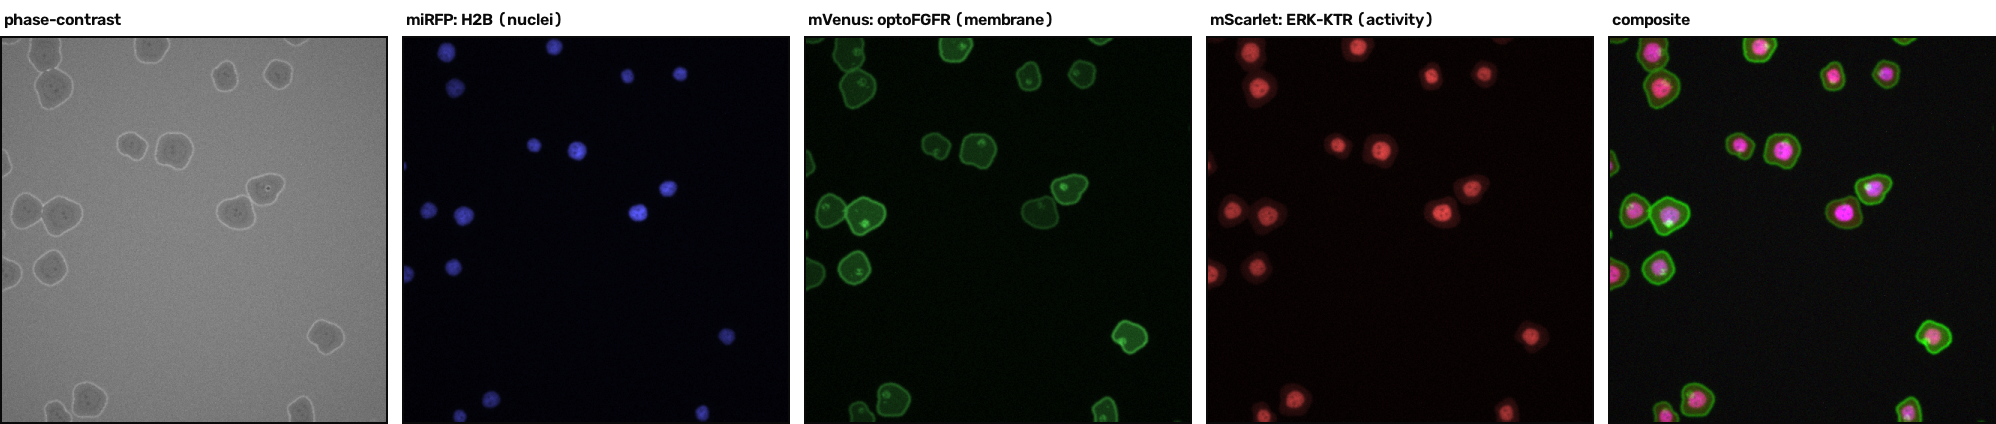
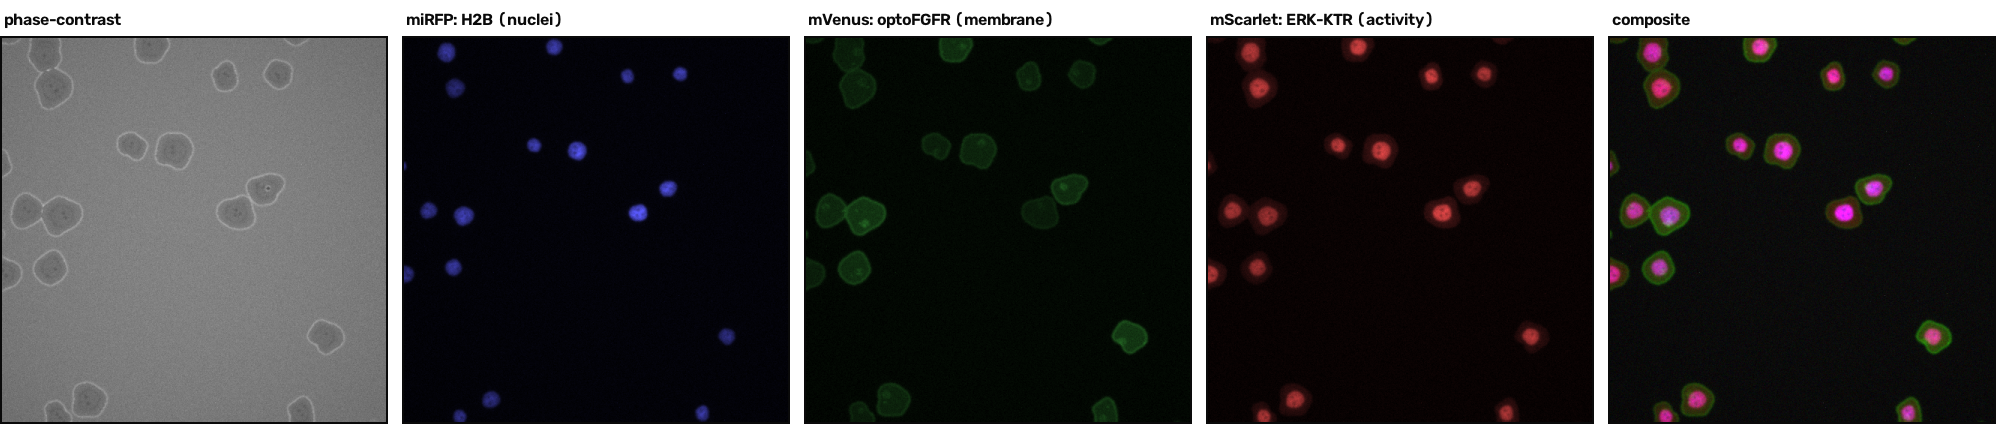
Softer mVenus, N letter target, 5x faster physics
- mVenus: rim only ~20% brighter than the body (flat fibroblasts show
  little edge enhancement), Golgi at half strength, channel 30% dimmer
- letter example targets a symmetric N instead of the L (the L's corner
  concentrated the crowding); 70% of cells on target
- physics: a uniform neighbour grid for the contact and pressure passes
  (all-pairs before), stimulation tests only cells near the field of
  view, and the signalling/KTR-noise update is vectorized (it was a
  per-cell Python loop and dominated the step). 1280-cell letter
  population 8.6 -> 1.65 ms/step, default 640 cells 3.8 -> 0.9 ms/step;
  the letter exercise runs in ~25 s instead of several minutes
- README performance numbers updated

diff --git a/src/vmteach/cells.py b/src/vmteach/cells.py
@@ -318,12 +318,45 @@ def update_all_cells_parallel(centers: np.ndarray, velocities: np.ndarray,
                 wells[w, 0], wells[w, 1], half, corner)
 
 
+@njit(cache=True)
+def build_grid(centers: np.ndarray, cell_size: float):
+    """Uniform spatial grid over the cell centres (CSR layout).
+
+    Returns ``(order, start, bx, by, nx, ny)``: the cells sorted by bin
+    (stable, so deterministic), per-bin start offsets into ``order``, and
+    each cell's bin coordinates. Neighbour searches then scan the 3 x 3
+    surrounding bins instead of every cell, which makes the contact
+    passes ~linear in the population size.
+    """
+    n = centers.shape[0]
+    x0 = centers[:, 0].min()
+    y0 = centers[:, 1].min()
+    nx = int((centers[:, 0].max() - x0) / cell_size) + 1
+    ny = int((centers[:, 1].max() - y0) / cell_size) + 1
+    bx = np.empty(n, np.int64)
+    by = np.empty(n, np.int64)
+    key = np.empty(n, np.int64)
+    for i in range(n):
+        bx[i] = int((centers[i, 0] - x0) / cell_size)
+        by[i] = int((centers[i, 1] - y0) / cell_size)
+        key[i] = by[i] * nx + bx[i]
+    order = np.argsort(key, kind="mergesort")
+    start = np.zeros(nx * ny + 1, np.int64)
+    for i in range(n):
+        start[key[i] + 1] += 1
+    for b in range(nx * ny):
+        start[b + 1] += start[b]
+    return order, start, bx, by, nx, ny
+
+
 @njit(parallel=True, cache=True)
 def conform_membranes(centers: np.ndarray, radii_in: np.ndarray,
                       radii_out: np.ndarray, rest_radii: np.ndarray,
                       base_radii: np.ndarray, angles: np.ndarray,
                       cell_well: np.ndarray, pushes: np.ndarray,
-                      dt: float) -> None:
+                      dt: float, order: np.ndarray, start: np.ndarray,
+                      bx: np.ndarray, by: np.ndarray, gnx: int,
+                      gny: int) -> None:
     """Contact inhibition of protrusion plus contact pressure (in place).
 
     Any vertex that would sit inside a neighbouring cell's outline is
@@ -350,30 +383,34 @@ def conform_membranes(centers: np.ndarray, radii_in: np.ndarray,
         rmax_i = radii_in[i].max()
         pushes[i, 0] = 0.0
         pushes[i, 1] = 0.0
-        for j in range(n):
-            if j == i or cell_well[j] != cell_well[i]:
+        for gy in range(max(0, by[i] - 1), min(gny, by[i] + 2)):
+          for gx in range(max(0, bx[i] - 1), min(gnx, bx[i] + 2)):
+            b = gy * gnx + gx
+            for kk in range(start[b], start[b + 1]):
+              j = order[kk]
+              if j == i or cell_well[j] != cell_well[i]:
                 continue
-            dx = centers[j, 0] - cx
-            dy = centers[j, 1] - cy
-            dc = np.sqrt(dx * dx + dy * dy)
-            if dc >= rmax_i + radii_in[j].max():
-                continue
-            for v in range(nv):
-                rv = radii_out[i, v]
-                px = cx + np.cos(angles[v]) * rv
-                py = cy + np.sin(angles[v]) * rv
-                ddx = px - centers[j, 0]
-                ddy = py - centers[j, 1]
-                d = np.sqrt(ddx * ddx + ddy * ddy)
-                kj = int(round(np.arctan2(ddy, ddx) / two_pi * nv)) % nv
-                lim = CONTACT_SURFACE * radii_in[j, kj]
-                if d < lim:
-                    rv = max(rv - (lim - d), 0.5 * base_radii[i])
-                    radii_out[i, v] = rv
-                    comp = rest_radii[i, v] - rv
-                    if comp > 0.0:
-                        pushes[i, 0] -= np.cos(angles[v]) * comp
-                        pushes[i, 1] -= np.sin(angles[v]) * comp
+              dx = centers[j, 0] - cx
+              dy = centers[j, 1] - cy
+              dc = np.sqrt(dx * dx + dy * dy)
+              if dc >= rmax_i + radii_in[j].max():
+                  continue
+              for v in range(nv):
+                  rv = radii_out[i, v]
+                  px = cx + np.cos(angles[v]) * rv
+                  py = cy + np.sin(angles[v]) * rv
+                  ddx = px - centers[j, 0]
+                  ddy = py - centers[j, 1]
+                  d = np.sqrt(ddx * ddx + ddy * ddy)
+                  kj = int(round(np.arctan2(ddy, ddx) / two_pi * nv)) % nv
+                  lim = CONTACT_SURFACE * radii_in[j, kj]
+                  if d < lim:
+                      rv = max(rv - (lim - d), 0.5 * base_radii[i])
+                      radii_out[i, v] = rv
+                      comp = rest_radii[i, v] - rv
+                      if comp > 0.0:
+                          pushes[i, 0] -= np.cos(angles[v]) * comp
+                          pushes[i, 1] -= np.sin(angles[v]) * comp
         pushes[i, 0] *= PRESSURE * dt
         pushes[i, 1] *= PRESSURE * dt
 
@@ -382,7 +419,10 @@ def conform_membranes(centers: np.ndarray, radii_in: np.ndarray,
 def resolve_all_collisions(centers: np.ndarray, velocities: np.ndarray,
                            radii: np.ndarray, base_radii: np.ndarray,
                            cell_well: np.ndarray,
-                           wells: np.ndarray, half: float, corner: float) -> None:
+                           wells: np.ndarray, half: float, corner: float,
+                           order: np.ndarray, start: np.ndarray,
+                           bx: np.ndarray, by: np.ndarray, gnx: int,
+                           gny: int) -> None:
     """Pairwise body-guard resolution (in place).
 
     Membrane contact is handled by ``conform_membranes`` (membranes press
@@ -390,8 +430,8 @@ def resolve_all_collisions(centers: np.ndarray, velocities: np.ndarray,
     (nucleus scale, ``BODY_GUARD`` x base radius) from merging.
     Overlapping bodies are pushed apart symmetrically along the line of
     centres and both velocities are zeroed; the pair is then confined to
-    its wells again. Deterministic pair order (i < j), so a rerun gives
-    bit-identical positions.
+    its wells again. Deterministic pair order (i ascending, neighbours
+    j > i in grid order), so a rerun gives bit-identical positions.
     """
     n = centers.shape[0]
     maxr = np.empty(n)
@@ -400,7 +440,13 @@ def resolve_all_collisions(centers: np.ndarray, velocities: np.ndarray,
         maxr[i] = radii[i].max()
         guard[i] = BODY_GUARD * base_radii[i]
     for i in range(n):
-        for j in range(i + 1, n):
+      for gy in range(max(0, by[i] - 1), min(gny, by[i] + 2)):
+        for gx in range(max(0, bx[i] - 1), min(gnx, bx[i] + 2)):
+          b = gy * gnx + gx
+          for kk in range(start[b], start[b + 1]):
+            j = order[kk]
+            if j <= i:
+                continue
             dx = centers[j, 0] - centers[i, 0]
             dy = centers[j, 1] - centers[i, 1]
             dist = np.sqrt(dx * dx + dy * dy)
@@ -424,6 +470,40 @@ def resolve_all_collisions(centers: np.ndarray, velocities: np.ndarray,
                     wells[wi, 0], wells[wi, 1], half, corner)
             confine(centers[j], velocities[j], maxr[j],
                     wells[wj, 0], wells[wj, 1], half, corner)
+
+
+# signalling state columns (one row per cell)
+SIG_SINCE, SIG_ACTIVITY, SIG_NOISE, SIG_KTR, SIG_MOTILITY = range(5)
+ACTIVITY_RISE = 5.0     # s from a pulse to full activity
+ACTIVITY_DECAY = 15.0   # s from full activity back to 0 (after RISE)
+MOTILITY_TAU = 4.0      # s: decay of the migration drive after a pulse
+KTR_NOISE_TAU = 10.0    # s: timescale of the baseline activity noise
+KTR_NOISE_STD = 0.03    # stationary std of the baseline noise
+KTR_BASE = 0.05         # mean baseline activity (0..0.1 band)
+
+
+def update_signalling(sig: np.ndarray, dt: float, normals: np.ndarray) -> None:
+    """Advance the signalling state of all cells by ``dt`` (in place).
+
+    Activity rises to 1 within ``ACTIVITY_RISE`` s of a pulse and decays
+    back to 0 over ``ACTIVITY_DECAY`` s once pulses stop. Migration
+    responds faster than the reporter (the crawl drive decays with
+    ``MOTILITY_TAU``), so a cell that stops being targeted comes to rest
+    instead of overshooting. The rendered reporter adds a per-cell
+    baseline fluctuation (an OU process, ~10 s timescale), as real
+    reporters show. ``normals``: one standard normal draw per cell.
+    """
+    since = sig[:, SIG_SINCE]
+    since += dt
+    rising = since <= ACTIVITY_RISE
+    act = sig[:, SIG_ACTIVITY]
+    act[:] = np.where(rising, np.minimum(1.0, act + dt / ACTIVITY_RISE),
+                      np.maximum(0.0, act - dt / ACTIVITY_DECAY))
+    sig[:, SIG_MOTILITY] = np.exp(-since / MOTILITY_TAU)
+    noise = sig[:, SIG_NOISE]
+    noise += (-noise / KTR_NOISE_TAU * dt
+              + KTR_NOISE_STD * np.sqrt(2.0 * dt / KTR_NOISE_TAU) * normals)
+    sig[:, SIG_KTR] = np.clip(act + KTR_BASE + noise, 0.0, 1.0)
 
 
 # ------------------------------------------------------------- #
@@ -493,12 +573,8 @@ class OptogeneticCell(CellBase):
     timelapse imaging or tracking.
     """
 
-    ACTIVITY_RISE = 5.0    # s from a pulse to full activity
-    ACTIVITY_DECAY = 15.0  # s from full activity back to 0 (after RISE)
-    MOTILITY_TAU = 4.0     # s: decay of the migration drive after a pulse
-    KTR_NOISE_TAU = 10.0   # s: timescale of the baseline activity noise
-    KTR_NOISE_STD = 0.03   # stationary std of the baseline noise
-    KTR_BASE = 0.05        # mean baseline activity (0..0.1 band)
+    ACTIVITY_RISE = ACTIVITY_RISE
+    ACTIVITY_DECAY = ACTIVITY_DECAY
 
     def __init__(self, *args, protrusion_gain: float = 0.22,
                  impulse: float = 30.0, **kwargs):
@@ -506,31 +582,25 @@ class OptogeneticCell(CellBase):
         self.protrusion_gain = protrusion_gain
         self.impulse = impulse
         self.is_stimulated = False
-        self.activity = 0.0
-        self.motility = 0.0
-        self.ktr = 0.0              # rendered pathway activity, with noise
-        self._ktr_noise = 0.0       # OU state of the baseline fluctuation
-        self._since_stim = np.inf   # s since the last stimulation pulse
+        # signalling state, one row of the sim's ``signals`` array once the
+        # cell belongs to a sim (see SIG_* for the columns)
+        self._sig = np.array([np.inf, 0.0, 0.0, 0.0, 0.0])
+
+    # s since the last stimulation pulse
+    _since_stim = property(lambda self: float(self._sig[SIG_SINCE]),
+                           lambda self, v: self._sig.__setitem__(SIG_SINCE, v))
+    # pathway activity in [0, 1] (the pure light response)
+    activity = property(lambda self: float(self._sig[SIG_ACTIVITY]),
+                        lambda self, v: self._sig.__setitem__(SIG_ACTIVITY, v))
+    # rendered reporter state: activity + baseline noise
+    ktr = property(lambda self: float(self._sig[SIG_KTR]))
+    # migration drive (decays faster than the reporter)
+    motility = property(lambda self: float(self._sig[SIG_MOTILITY]))
 
     def update_activity(self, dt: float) -> None:
-        """Advance the signalling state by ``dt`` seconds (deterministic)."""
-        self._since_stim += dt
-        if self._since_stim <= self.ACTIVITY_RISE:
-            self.activity = min(1.0, self.activity + dt / self.ACTIVITY_RISE)
-        else:
-            self.activity = max(0.0, self.activity - dt / self.ACTIVITY_DECAY)
-        # migration responds faster than the reporter: the crawl drive is
-        # high only while pulses keep coming, so a cell that stops being
-        # targeted comes to rest quickly instead of overshooting
-        self.motility = float(np.exp(-self._since_stim / self.MOTILITY_TAU))
-        # baseline pathway noise (per-cell OU process, ~10 s timescale):
-        # unstimulated cells fluctuate a few percent, as real reporters do
-        tau, std = self.KTR_NOISE_TAU, self.KTR_NOISE_STD
-        self._ktr_noise += (-self._ktr_noise / tau * dt
-                            + std * np.sqrt(2.0 * dt / tau)
-                            * self._rng.standard_normal())
-        self.ktr = float(np.clip(
-            self.activity + self.KTR_BASE + self._ktr_noise, 0.0, 1.0))
+        """Advance this cell's signalling state by ``dt`` seconds."""
+        update_signalling(self._sig[None, :], dt,
+                          self._rng.standard_normal(1))
 
     def stimulate(self, mask: np.ndarray, origin=(0.0, 0.0),
                   scale: float = 1.0) -> None:

diff --git a/src/vmteach/sim.py b/src/vmteach/sim.py
@@ -38,7 +38,10 @@ import cv2
 import numpy as np
 
 from vmteach.cells import (
+    SIG_MOTILITY,
     OptogeneticCell,
+    build_grid,
+    update_signalling,
     conform_membranes,
     resolve_all_collisions,
     update_all_cells_parallel,
@@ -260,6 +263,8 @@ class OptoCellSim:
         self.motions = np.zeros((n, 2))
         self.drives = np.zeros(n)
         self._pushes = np.zeros((n, 2))
+        self.signals = np.zeros((n, 5))
+        self._sig_rng = np.random.default_rng(self._seed + 500)
         self.golgi_dirs = np.zeros((n, 2))
         self.fibre_xy = np.zeros((0, 2))
         self.fibre_cell = np.zeros(0, dtype=int)
@@ -295,6 +300,8 @@ class OptoCellSim:
             c.front_ttl = self.front_ttls[i]
             self.golgi_dirs[i] = (np.cos(c.polarity[0]), np.sin(c.polarity[0]))
             c.golgi_dir = self.golgi_dirs[i]
+            self.signals[i] = c._sig
+            c._sig = self.signals[i]
             c.angles = self.angles
 
     # ── physics ─────────────────────────────────────────────────────────
@@ -355,13 +362,18 @@ class OptoCellSim:
         # membranes press against neighbours and conform (contact
         # inhibition of protrusion); bodies must still never merge
         snapshot = self.radii.copy()
+        # neighbour grid: bins as large as the largest possible contact
+        # distance (two maximally protruded cells), plus a margin for the
+        # small pushes applied between the passes
+        size = 2.0 * float(snapshot.max()) + 2.0
+        grid = build_grid(self.centers, size)
         conform_membranes(self.centers, snapshot, self.radii,
                           self.rest_radii, self.base_radii, self.angles,
-                          self.cell_well, self._pushes, dt)
+                          self.cell_well, self._pushes, dt, *grid)
         self.centers += self._pushes
         resolve_all_collisions(self.centers, self.velocities, self.radii,
                                self.base_radii, self.cell_well, self.wells,
-                               self.well_half, self.corner_radius)
+                               self.well_half, self.corner_radius, *grid)
         # signalling state -> next step's protrusion drive (recently pulsed
         # cells protrude more, and sharply toward where the light pointed
         # them; the drive fades within seconds once the pulses stop)
@@ -372,9 +384,9 @@ class OptoCellSim:
         self.golgi_dirs /= np.maximum(
             np.hypot(self.golgi_dirs[:, 0], self.golgi_dirs[:, 1]), 1e-9)[:, None]
         self._update_fibres(adh_before, dt)
-        for i, c in enumerate(self._cells):
-            c.update_activity(dt)
-            self.drives[i] = c.motility
+        update_signalling(self.signals, dt,
+                          self._sig_rng.standard_normal(self.n_cells))
+        self.drives[:] = self.signals[:, SIG_MOTILITY]
 
     # ── stimulation ─────────────────────────────────────────────────────
 
@@ -416,8 +428,19 @@ class OptoCellSim:
         sensor = self.slm_on_sensor(mask)
         origin = tuple(self.view_origin)
         scale = self.scale
-        for c in self._cells:
-            c.stimulate(sensor, origin=origin, scale=scale)
+        # only cells that can reach the illuminated field need the per-cell
+        # test; everyone else simply receives no light
+        fov = self.fov_um
+        reach = self.radii.max(axis=1)
+        near = ((self.centers[:, 0] + reach > origin[0])
+                & (self.centers[:, 0] - reach < origin[0] + fov)
+                & (self.centers[:, 1] + reach > origin[1])
+                & (self.centers[:, 1] - reach < origin[1] + fov))
+        for i, c in enumerate(self._cells):
+            if near[i]:
+                c.stimulate(sensor, origin=origin, scale=scale)
+            else:
+                c.is_stimulated = False
 
     # ── device hooks ────────────────────────────────────────────────────
 

diff --git a/src/vmteach/render.py b/src/vmteach/render.py
@@ -260,7 +260,7 @@ class CellRenderer:
     # fluorescence (gray levels at expression 1)
     FLUO_BG = 6
     H2B = 160
-    MEMBRANE = 150
+    MEMBRANE = 105
     # ERK-KTR (mode 4): intensities interpolate with cell.ktr / activity
     KTR_CYTO_LO, KTR_CYTO_HI = 45, 110      # cytoplasm: dim -> bright
     KTR_NUC_LO, KTR_NUC_HI = 40, 170        # nucleus:  bright -> dark
@@ -520,9 +520,10 @@ class CellRenderer:
             tex = self._texture(shape, bodies, [p for _, p in vis], scale) if use_tex else 0.0
             fill_f = fill.astype(f) / 255.0 * _EXPR_MAX
             vesicles = np.clip(tex - 1.8, 0.0, None) * fill_f
+            # flat fibroblasts: the rim is only ~20% brighter than the body
             sig = (0.30 * fill_f
-                   + 0.45 * blur(rim.astype(f) / 255.0, 0.7 * scale) * _EXPR_MAX
-                   + 0.45 * blur(golgi.astype(f) / 255.0, 0.8 * scale)
+                   + 0.24 * blur(rim.astype(f) / 255.0, 0.7 * scale) * _EXPR_MAX
+                   + 0.225 * blur(golgi.astype(f) / 255.0, 0.8 * scale)
                    * _EXPR_MAX * (1.0 + 0.5 * tex)
                    + 0.35 * vesicles
                    + 0.35 * fib_f)

diff --git a/examples/05_letter_assembly.py b/examples/05_letter_assembly.py
@@ -13,7 +13,7 @@ from vmteach import load_microscope, advance, letter_mask, overlay
 # Smaller, more numerous cells + a fat letter: cells are solid objects that
 # keep a collision distance (~2 cell radii), so the stroke must fit them.
 core, sim = load_microscope("optogenetic", n_cells=40, seed=0, base_radius=13.0)
-target = letter_mask("L", fill=0.65, thickness=55)
+target = letter_mask("N", fill=0.65, thickness=55)
 
 # %%
 # Routing map: aim cells at the CORE of the letter stroke (distance-transform
@@ -70,7 +70,7 @@ def build_letter_mask(cells, step_px=12, spot_r=11, occupied_r=28,
 
 
 # %%
-# Run the feedback loop (~15 s for 500 cycles)
+# Run the feedback loop (~20 s for 500 cycles)
 sim.reset()
 for i in range(500):
     core.setConfig("Channel", "miRFP")        # light off, acquire nuclei

diff --git a/src/vmteach/teach.py b/src/vmteach/teach.py
@@ -442,7 +442,7 @@ def letter_mask(char: str, shape: tuple = (512, 512),
     """Binary target image of a letter, centered, for the assembly exercise.
 
     Args:
-        char: A single character (e.g. ``"L"``).
+        char: A single character (e.g. ``"N"``).
         shape: Output image shape ``(height, width)``.
         fill: Approximate fraction of the smaller image dimension the
             letter should span.

diff --git a/README.md b/README.md
@@ -6,7 +6,7 @@ A **minimal virtual microscope for learning and testing smart microscopy**: a si
 
 Code written against the virtual microscope runs unchanged on real hardware: `core.snapImage()`, `core.setConfig("Channel", ...)`, `core.setSLMImage(...)` are the identical calls in both worlds, because both implement the same Micro-Manager core API. That also makes this package a lightweight, deterministic stand-in for a real microscope in the test suites of acquisition and control software.
 
-It began as a subset of the full [virtual-microscope](https://github.com/hinderling/virtual-microscope) research simulator and was rewritten for teaching: ~2,000 lines of Python, 4 ms per frame (250 fps) on a laptop. The NEUBIAS [training-resources](https://neubias.github.io/training-resources/) modules on smart microscopy build their exercises on it.
+It began as a subset of the full [virtual-microscope](https://github.com/hinderling/virtual-microscope) research simulator and was rewritten for teaching: ~2,800 lines of Python, 5 to 10 ms per frame (100 to 200 fps) on a laptop. The NEUBIAS [training-resources](https://neubias.github.io/training-resources/) modules on smart microscopy build their exercises on it.
 
 ## Install
 
@@ -24,7 +24,7 @@ pip install "virtual-microscope-teaching[gui] @ git+https://github.com/hinderlin
 
 Requires Python ≥ 3.10, runs locally on any laptop. No hardware, no Micro-Manager device adapters, no C++. Everything is pure Python.
 
-> The very first `load_microscope()` compiles the simulation physics (numba, about 5 s) and caches the result on disk, so every later load takes under a second, including after restarting Python. A full 100-cycle feedback experiment runs in ~4 s.
+> The very first `load_microscope()` compiles the simulation physics (numba, about 5 s) and caches the result on disk, so every later load takes under a second, including after restarting Python. A full 100-cycle feedback experiment runs in ~3 s.
 
 ## Quick start: a complete feedback experiment
 
